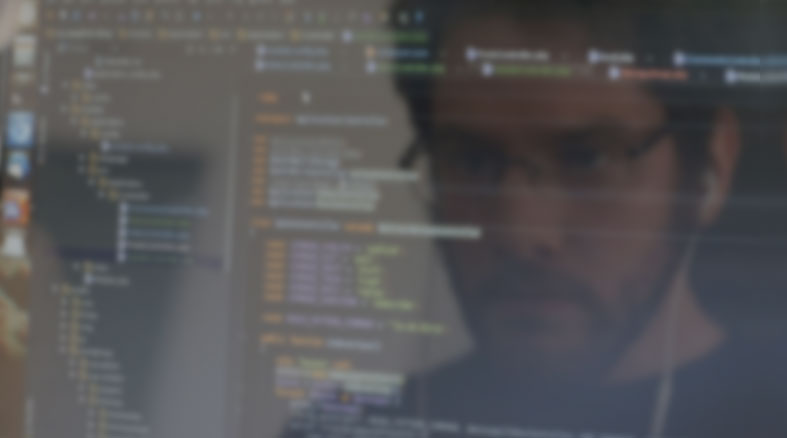
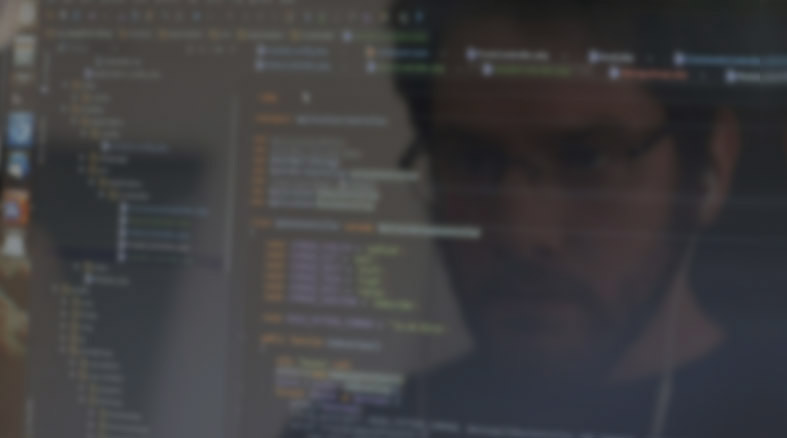
Home - improved design

diff --git a/app/assets/home.html b/app/assets/home.html
@@ -52,6 +52,7 @@
         <a href="/find-an-expert" class="trackCustomerLogin btn btn-lg btn-primary" style="width:380px;margin-top:50px;margin-bottom:50px">Pair with an expert</a>
 <!--         <p>Already a member? <a href="/auth/google">Login Now</a></p> -->
       </div>
+
       <nav class="nav-technologies">
         <div class="container">
          <ul class="list-inline">
@@ -132,23 +133,6 @@
           </div>
         </div>
 
-<!--         <div class="row testimonial">
-          <div class="col-xs-3 text-center">
-            <div class="avatar-logo">
-              <img src="//avatars0.githubusercontent.com/u/175123?s=220" alt="" class="img-circle" width="130px"/>
-              <div class="logo">
-                <img src="/images/pages/marketing/intel.png" alt="">
-              </div>
-            </div>
-          </div>
-          <div class="col-xs-9">
-            <h4 class="text-bold">\</h4>
-            "AirPair helped us quickly optimize Intel’s next generation cloud orchestration front-end by connection us in a few hours with Stefan Penner, the creator of the library we were using."
-            <small class="block m-t-1">
-              <b>&ndash; Nathan Ward</b><span class="text-muted"> Intel, Lead Front-End Engineer</span>
-            </small>
-          </div>
-        </div> -->
 
       </div>
 
@@ -163,8 +147,8 @@
     <!-- PHOTO -->
 
 
-    <div class="bg-img-glass">
-      <img src="/images/pages/home/bg-glass.png" alt="" class="bg">
+    <div class="bg-img-box">
+      <img src="/images/pages/home/bg-desk.jpg" alt="" class="bg bg-desk">
       <div class="bg-white">
         <h4>Get face-to-face with the world's leading software developers.</h4>
         <hr>
@@ -202,9 +186,6 @@
             <h4>Ari Lerner</h4>
             <h5 class="text-muted">AngularJS</h5>
             <h6>Book Author</h6>
-            <div class="hover-show">
-              <!-- "I think an hour or two of UX consulting can revolutionize the way teams view their products and I love helping people learn and feel excited and empowered about something that was previously vague or overwhelming." -->
-            </div>
           </div>
           <a href="/book/auser" class="btn btn-slate btn-block m-t-1">Book Ari</a>
         </div>
@@ -214,9 +195,6 @@
             <h4>Domenic Denicola</h4>
             <h5 class="text-muted">Node.JS</h5>
             <h6>NPM Core Contributor</h6>
-            <div class="hover-show">
-              <!-- "I think an hour or two of UX consulting can revolutionize the way teams view their products and I love helping people learn and feel excited and empowered about something that was previously vague or overwhelming." -->
-            </div>
           </div>
           <a href="/book/domenic" class="btn btn-slate btn-block m-t-1">Book Domenic</a>
         </div>
@@ -226,9 +204,6 @@
             <h4>Ryan Bigg</h4>
             <h5 class="text-muted">Ruby on Rails</h5>
             <h6>Book Author</h6>
-            <div class="hover-show">
-              <!-- "I think an hour or two of UX consulting can revolutionize the way teams view their products and I love helping people learn and feel excited and empowered about something that was previously vague or overwhelming." -->
-            </div>
           </div>
           <a href="/book/ryanbigg" class="btn btn-slate btn-block m-t-1">Book Ryan</a>
         </div>
@@ -238,9 +213,6 @@
             <h4>Daniel Roseman</h4>
             <h5 class="text-muted">Python</h5>
             <h6>Django #1 Answerer</h6>
-            <div class="hover-show">
-              <!-- "I think an hour or two of UX consulting can revolutionize the way teams view their products and I love helping people learn and feel excited and empowered about something that was previously vague or overwhelming." -->
-            </div>
           </div>
           <a href="/book/danielroseman" class="btn btn-slate btn-block m-t-1">Book Daniel</a>
         </div>
@@ -250,54 +222,12 @@
             <h4>Felienne Hermans</h4>
             <h5 class="text-muted">Excel</h5>
             <h6>Spreadsheet Professor</h6>
-            <div class="hover-show">
-              <!-- "I think an hour or two of UX consulting can revolutionize the way teams view their products and I love helping people learn and feel excited and empowered about something that was previously vague or overwhelming." -->
-            </div>
           </div>
           <a href="/book/felienne" class="btn btn-slate btn-block m-t-1">Book Felienne</a>
         </div>
       </div>
 
-     <!--  <div class="row m-t-2">
-        <div class="col-xs-3">
-        </div>
-        <div class="col-xs-3">
-          <div class="user-badge text-center">
-            <img src="/images/avatars/pg.png" alt="" class="img-circle" width="50%">
-            <h4>Backnol Yogendrane</h4>
-            <h5 class="text-muted">Ruby on Rails</h5>
-            <h6>Backnol Yogendrane</h6>
-            <div class="hover-show">
-              "I think an hour or two of UX consulting can revolutionize the way teams view their products and I love helping people learn and feel excited and empowered about something that was previously vague or overwhelming."
-            </div>
-          </div>
-          <a href="#" class="btn btn-slate btn-block m-t-1">Read More</a>
-        </div>
-        <div class="col-xs-3">
-          <div class="user-badge text-center">
-            <img src="/images/avatars/dt.png" alt="" class="img-circle" width="50%">
-            <h4>Backnol Yogendrane</h4>
-            <h5 class="text-muted">Ruby on Rails</h5>
-            <h6>Backnol Yogendrane</h6>
-            <div class="hover-show">
-              "I think an hour or two of UX consulting can revolutionize the way teams view their products and I love helping people learn and feel excited and empowered about something that was previously vague or overwhelming."
-            </div>
-          </div>
-          <a href="#" class="btn btn-slate btn-block m-t-1">Read More</a>
-        </div>
-        <div class="col-xs-3">
-          <div class="user-badge text-center">
-            <img src="/images/avatars/il.png" alt="" class="img-circle" width="50%">
-            <h4>Backnol Yogendrane</h4>
-            <h5 class="text-muted">Ruby on Rails</h5>
-            <h6>Backnol Yogendrane</h6>
-            <div class="hover-show">
-              "I think an hour or two of UX consulting can revolutionize the way teams view their products and I love helping people learn and feel excited and empowered about something that was previously vague or overwhelming."
-            </div>
-          </div>
-          <a href="#" class="btn btn-slate btn-block m-t-1">Read More</a>
-        </div>
-      </div> -->
+
 
       <div class="text-center m-t-2">
         <a id="apply-expert" href="/be-an-expert" class="trackExpertLogin btn btn-lg btn-primary btn-wide" style="margin-top:50px">Apply to be an Expert</a>
@@ -317,13 +247,13 @@
 
 
 
-<!--     <div class="header-grad m-t-3">
+    <!-- 
+    <div class="header-grad m-t-3">
       <div class="container">
         How Much Does it Cost?
       </div>
     </div> -->
 
-    <!-- <hr> -->
 
   <div class="bg-gray">
     <div class="container p-b-4">
@@ -408,7 +338,7 @@
 
 
     <footer>
-<p>&copy; airpair, Inc. · (800) 487-0668 · <a href="mailto:team@airpair.com" style="color:#CE5323">Email Us</a> · <a href="http://www.airpair.com/tutorials" style="color:#CE5323">Tutorials</a> · <a href="http://www.airpair.com/privacy" style="color:#CE5323">Privacy Policy</a></p>
+      <p>&copy; airpair, Inc. · (800) 487-0668 · <a href="mailto:team@airpair.com">Email Us</a> · <a href="http://www.airpair.com/tutorials">Tutorials</a> · <a href="http://www.airpair.com/privacy">Privacy Policy</a></p>
     </footer>
 
 

diff --git a/app/css/ap/modules/_hero.scss b/app/css/ap/modules/_hero.scss
@@ -1,17 +1,21 @@
 
 .hero {
-  background: url("/images/pages/home/banner-home.jpg");
+  @include clearfix();
+  background: url("/images/pages/home/banner-home.jpg") 0 -38px;
   background-size: cover;
+  
   @media (max-width: 1200px) {
     background-size: 1200px;
   }
+  
   &.behind-nav {
     margin-top: -100px;
     .hero-content {
       padding: 160px 0 50px;
     }
   }
-  @include clearfix();
+  
+
   .hero-content {
     margin-bottom:30px;
     text-align: center;
@@ -28,14 +32,10 @@
       margin-bottom: 26px;
       margin-top: 20px;
       color: white;
-      // opacity: 0.8;
       letter-spacing: 1px;
       a {
         text-decoration: underline;
         color: #fff;
-        &:hover {
-          // color: $brand-primary;
-        }
       }
     }
     a.login-now {
@@ -64,9 +64,18 @@
       }
     }
   }
+
+
+  .gaurantee {
+    position: absolute;
+    top: -52px;
+    left: 0;
+    width: 130px;
+  }
+
+
   .nav-technologies {
     background: rgba(255, 255, 255, 0.6);
-    margin-bottom: 20px;
     ul {
       li {
         float: left;
@@ -83,26 +92,21 @@
       }
     }
   }
+
+
+
 }
 
 
+
+
+// Hero on Marketing Landing Pages
 
 .hero .img-overlap {
   margin-top: -60px;
 }
 
-
 .hero-cta-text {
   height: 100px;
-}
-
-
-.hero-landing-top {
-  .gaurantee {
-    position: absolute;
-    top: -52px;
-    left: 0;
-    width: 130px;
-  }
 }
 

diff --git a/app/css/ap/ap.scss b/app/css/ap/ap.scss
@@ -72,6 +72,10 @@ footer {
   padding: 25px 0;
   a {
     color: #fff;
+    &:hover {
+      color: #fff;
+      text-decoration: underline;
+    }
   }
 }
 
@@ -88,33 +92,6 @@ footer {
   }
 }
 
-
-
-
-// .user-badge {
-//   background: #fafafa;
-//   .user-photo {
-//     height: 200px;
-//     overflow: hidden;
-//     img {
-//       width: 100%;
-//     }
-//   }
-//   .user-info {
-//     padding: 15px;
-//     .name {
-//       font-weight: bold;
-//       margin-bottom: 10px;
-//     }
-//     .tech {
-//       font-weight: bold;
-//       color: $gray-light;
-//     }
-//     .title {
-//       color: $gray-light;
-//     }
-//   }
-// }
 
 
 

diff --git a/app/css/ap/modules/_marketing.scss b/app/css/ap/modules/_marketing.scss
@@ -220,7 +220,7 @@ hr {
 
 
 
-.bg-img-glass {
+.bg-img-box {
   @include clearfix();
   position: relative;
   overflow: hidden;
@@ -234,6 +234,9 @@ hr {
     width: 100%;
     @media (max-width: 1200px) {
       width: 1200px;
+    }
+    &.bg-desk {
+      top: -270px;
     }
 
   }
